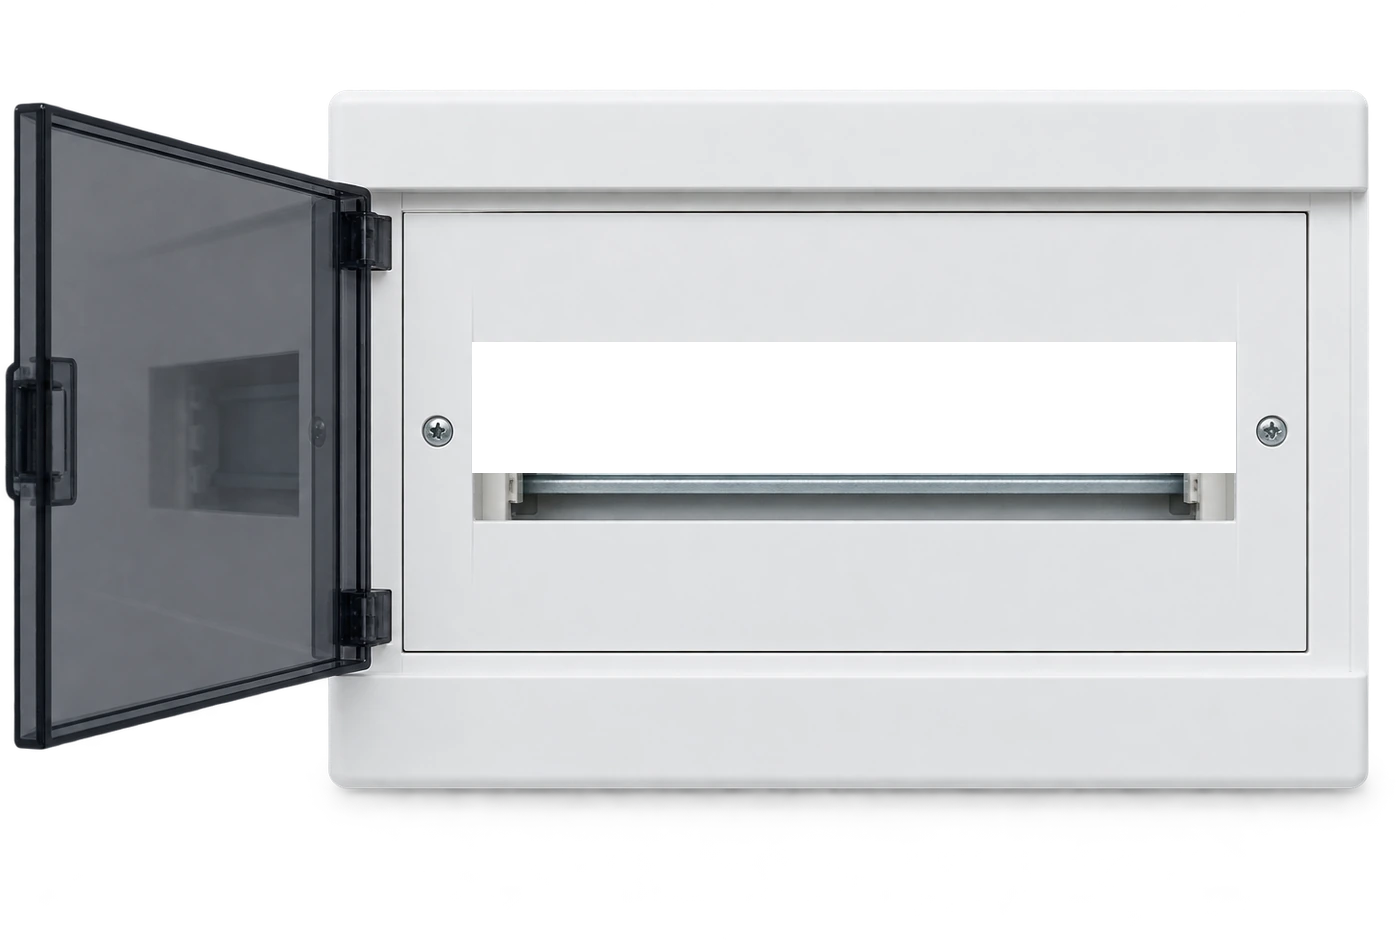
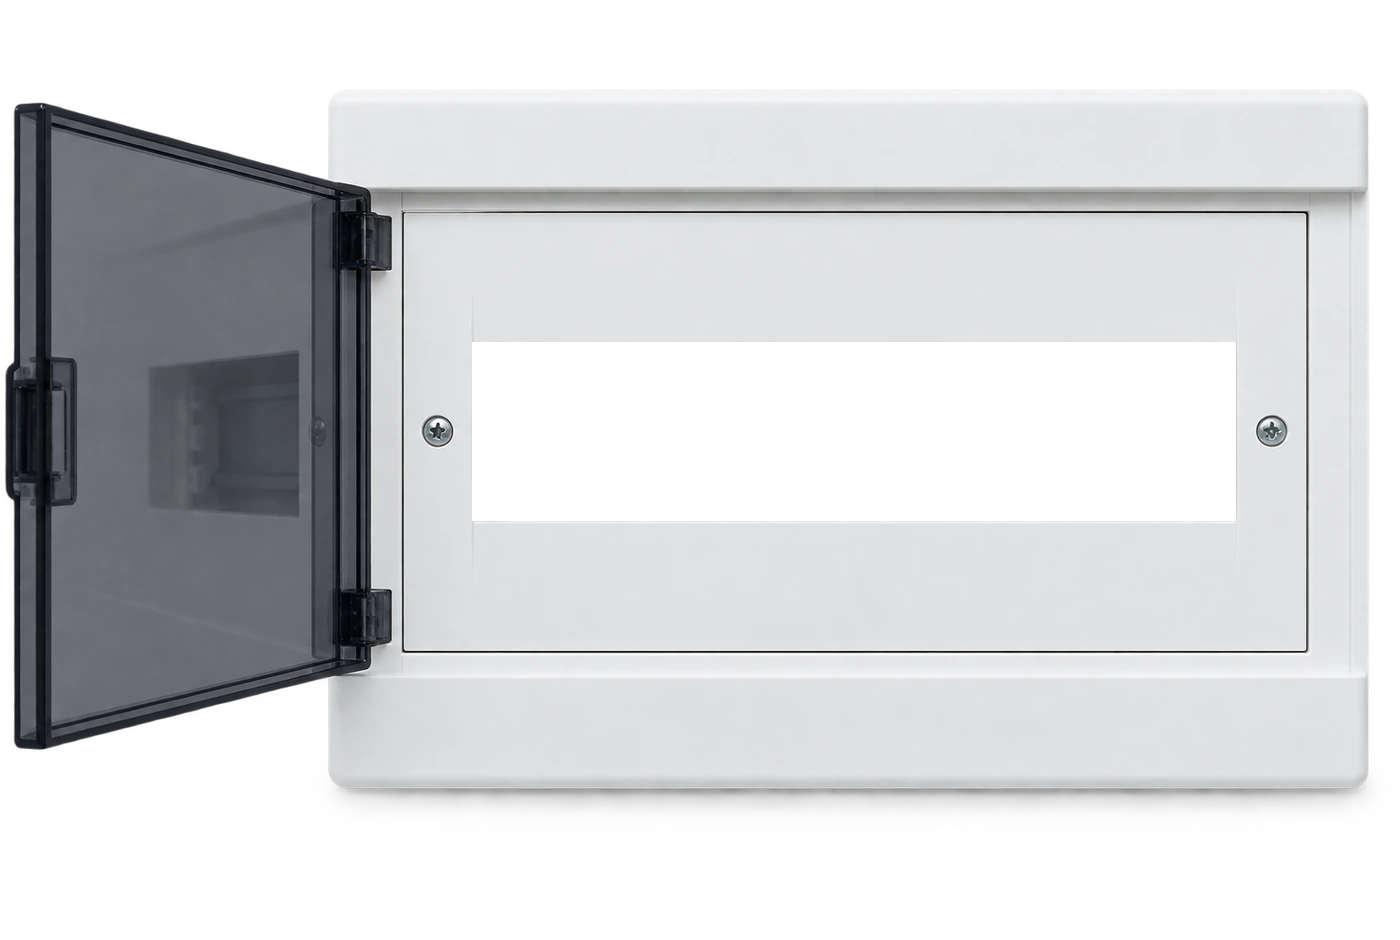
Corregir el calado: las ventanas quedaban más bajas de lo que son
Debajo de las llaves asomaba el riel, cosa que en un tablero real no pasa:
los módulos quedan justos contra la tapa.

La causa era el propio riel. La búsqueda del borde de la ventana se
detenía al primer píxel claro, y el riel que se ve por el hueco tiene un
reflejo brillante en el canto que la búsqueda tomaba por plástico de la
tapa. La ventana se cortaba ahí, unos 25 px antes de terminar.

Ahora hace falta un tramo de siete píxeles seguidos de blanco para dar por
cerrada la ventana, así un reflejo aislado no la corta. Las ventanas
crecieron a su medida real: la de 24 módulos pasó de 116 a 142 px de alto
y la de 12, de 130 a 178.

Changed region(s): [[0.3379, 0.4936, 0.8907, 0.5553]]

diff --git a/herramientas/preparar-imagenes.py b/herramientas/preparar-imagenes.py
@@ -98,23 +98,40 @@ def recortar(im, solido):
     return im.crop(caja) if caja else im
 
 
+# Cuántos píxeles seguidos de plástico blanco hacen falta para dar por
+# terminada la ventana. Con uno solo no alcanza: el riel que se ve por el hueco
+# tiene un reflejo brillante en el borde, y la búsqueda se cortaba ahí dejando
+# la ventana más baja de lo que es. El resultado eran llaves que no llegaban al
+# borde de la tapa, con el riel asomando debajo.
+BORDE_SEGUIDO = 7
+
+
 def borde_ventana(px, W, H, cx, cy):
     """Crece desde un punto interior hasta topar con el blanco de la tapa."""
-    def blanco(p):
-        r, g, b, a = p
+    def blanco(x, y):
+        r, g, b, a = px[x, y]
         return a > 200 and min(r, g, b) > 186
+
+    def corte(x, y, dx, dy):
+        """¿Empieza acá un tramo de blanco lo bastante largo como para ser el borde?"""
+        for k in range(BORDE_SEGUIDO):
+            nx, ny = x + dx * k, y + dy * k
+            if not (0 <= nx < W and 0 <= ny < H) or not blanco(nx, ny):
+                return False
+        return True
+
     x0 = cx
-    while x0 > 1 and not blanco(px[x0 - 1, cy]):
+    while x0 > BORDE_SEGUIDO and not corte(x0 - 1, cy, -1, 0):
         x0 -= 1
     x1 = cx
-    while x1 < W - 2 and not blanco(px[x1 + 1, cy]):
+    while x1 < W - 1 - BORDE_SEGUIDO and not corte(x1 + 1, cy, 1, 0):
         x1 += 1
     xm = (x0 + x1) // 2
     y0 = cy
-    while y0 > 1 and not blanco(px[xm, y0 - 1]):
+    while y0 > BORDE_SEGUIDO and not corte(xm, y0 - 1, 0, -1):
         y0 -= 1
     y1 = cy
-    while y1 < H - 2 and not blanco(px[xm, y1 + 1]):
+    while y1 < H - 1 - BORDE_SEGUIDO and not corte(xm, y1 + 1, 0, 1):
         y1 += 1
     return [x0, y0, x1, y1]
 
